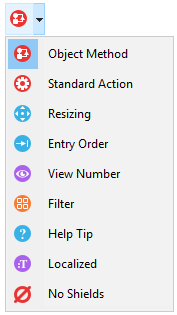
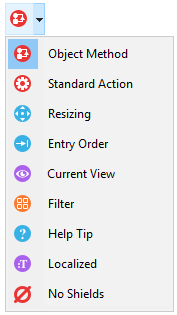
Corrections
View Number changed to Current View

Changed region(s): [[0.2542, 0.5143, 0.678, 0.5714]]

diff --git a/docs/Views/shields.md b/docs/Views/shields.md
@@ -32,7 +32,7 @@ Here is a description of each type of shield:
 |![](assets/en/Views/standardAction.png)  |Standard Action|For objects with an associated standard action |
 |![](assets/en/Views/resizing.png) |Resizing|For objects with at least one resizing property, indicates the combination of current properties |
 |![](assets/en/Views/entryOrder.png)|Entry Order|For enterable objects, indicates the number of entry order |
-|![](assets/en/Views/viewNumber.png) |View Number|For all objects with a view |
+|![](assets/en/Views/viewNumber.png) |Current View|For all objects with a view |
 |![](assets/en/Views/filter.png) |Filter|For enterable objects with an associated entry filter |
 |![](assets/en/Views/helpTip.png) |Help Tip|For objects with an associated tip |
 |![](assets/en/Views/localized.png)|Localized|For objects whose label comes from a reference (label beginning with “:”). The reference can be of the resource (STR#) or XLIFF type |

diff --git a/docs/Views/views.md b/docs/Views/views.md
@@ -64,7 +64,7 @@ It's also possible to move one or more objects from one view to another. In the 
 
 >The selection can contain several objects belonging to different views. 
 
-Then, simply select the destination view of the selection and click Move to view:
+Then, simply select the destination view of the selection and click **Move to**:
 
 ![](assets/en/Views/moveObject.png)
 
